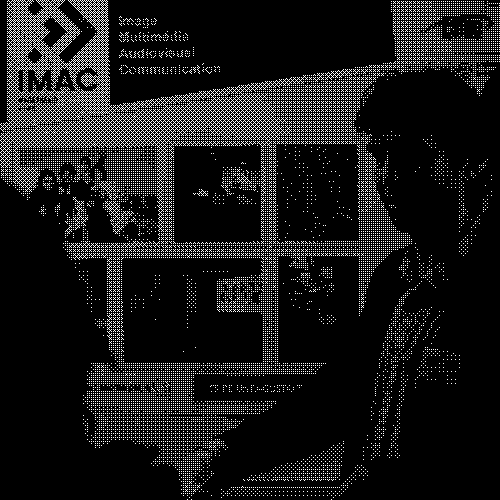
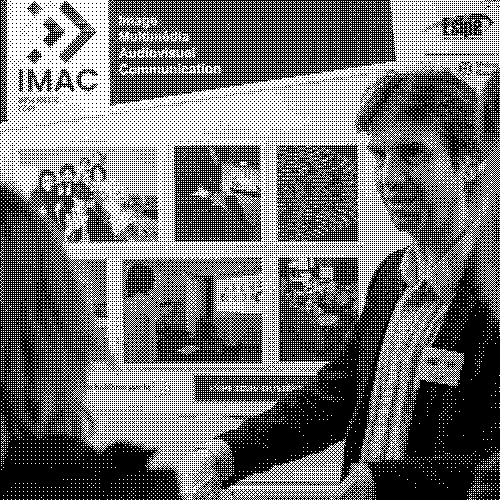
big OPTI + OP tramage
OPTI degrade + OPTI seulementLeVert + OPTI mosaique + OP tramage + OPTI mosaiqueMirror

diff --git a/src/main.cpp b/src/main.cpp
@@ -16,7 +16,6 @@ void seulementLeVert(sil::Image image)
         color.r = 0.f /*mets la composante rouge à 0. 1 couleur = glm::vec3 */ ;
         color.b = 0.f;
     }
-    
     image.save("output/01_seulementLeVert.png");
 }
 
@@ -58,9 +57,7 @@ void degrade(sil::Image image)
     {
         for (int x{0}; x < image.width(); x++)
         {
-            image.pixel(x, y).r += x / (image.width() - 1.0);
-            image.pixel(x, y).g += x / (image.width() - 1.0);
-            image.pixel(x, y).b += x / (image.width() - 1.0);
+            image.pixel(x, y) += x / (image.width() - 1.0);
 
             /* Autre façon de faire, en utilisant la valeur précédente en incrémentant :
             image.pixel(x, y).r += image.pixel(x-1, 0).r + 1.f/(image.width() -1);
@@ -227,54 +224,55 @@ void rosace (sil::Image & image,int thickness){
 
 void mosaique(sil::Image image) 
 {
-    sil::Image canvasMosaic{5*image.width(), 5*image.height()};
+    sil::Image mosaicCanvas{5*image.width(), 5*image.height()};
     
-    for (int canvasCol{0}; canvasCol < 5*image.height(); canvasCol += image.height())
+    for (int mosaicCanvasRow{0}; mosaicCanvasRow < 5; mosaicCanvasRow++)
     {
-        for (int canvasRow{0}; canvasRow < 5*image.width(); canvasRow += image.width())
+        for (int mosaicCanvasCol{0}; mosaicCanvasCol < 5; mosaicCanvasCol++)
         {
             for (int entryImageX{0}; entryImageX < image.width(); entryImageX++)
             {
-                for (int yImageEntry{0}; yImageEntry < image.height(); yImageEntry++)
+                for (int entryImageY{0}; entryImageY < image.height(); entryImageY++)
                 {
-                    canvasMosaic.pixel(entryImageX + canvasRow, yImageEntry + canvasCol) = image.pixel(entryImageX, yImageEntry);
+                    mosaicCanvas.pixel(mosaicCanvasRow*image.width() + entryImageX, mosaicCanvasCol*image.height() + entryImageY) = image.pixel(entryImageX, entryImageY);
                 }
             }
         }
     }
-    canvasMosaic.save("output/14_mosaique.png");
+    mosaicCanvas.save("output/14_mosaique.png");
 }
 
 void mosaiqueMiroir(sil::Image image) 
 {
-    sil::Image canvasMirroredMosaic{5*image.width(), 5*image.height()};
-    int startingPointx{};
-    int startingPointy{};
+    sil::Image mirroredMosaicCanvas{5*image.width(), 5*image.height()};
 
-    for (int mirroredCanvasRow{0}; mirroredCanvasRow < 5; mirroredCanvasRow++) 
+    for (int mirroredMosaicCanvasRow{0}; mirroredMosaicCanvasRow < 5; mirroredMosaicCanvasRow++) 
     {
-        for (int mirroredCanvasCol=0; mirroredCanvasCol<5; mirroredCanvasCol++) 
+        for (int mirroredMosaicCanvasCol{0}; mirroredMosaicCanvasCol < 5; mirroredMosaicCanvasCol++) 
         {
-            for (int xEntryImage{0}; xEntryImage < image.width(); xEntryImage++)
+            for (int entryImageX{0}; entryImageX < image.width(); entryImageX++)
             {
-                for (int yEntryImage{0}; yEntryImage < image.height(); yEntryImage++)
+                for (int entryImageY{0}; entryImageY < image.height(); entryImageY++)
                 {
-                    if (mirroredCanvasRow%2 == 1) {
-                        startingPointx = image.width()-xEntryImage-1;
+                    int startingPointX{};
+                    int startingPointY{};
+
+                    if (mirroredMosaicCanvasRow % 2 == 1) {
+                        startingPointX = image.width()- entryImageX - 1;
                     } else {
-                        startingPointx = xEntryImage;
+                        startingPointX = entryImageX;
                     }
-                    if (mirroredCanvasCol%2 == 1) {
-                        startingPointy = image.height()-yEntryImage-1;
+                    if (mirroredMosaicCanvasCol % 2 == 1) {
+                        startingPointY= image.height() - entryImageY - 1;
                     } else {
-                        startingPointy = yEntryImage;
+                        startingPointY= entryImageY;
                     }
-                    canvasMirroredMosaic.pixel(mirroredCanvasRow*image.width()+xEntryImage, mirroredCanvasCol*image.height()+yEntryImage) = image.pixel(startingPointx, startingPointy);
+                    mirroredMosaicCanvas.pixel(mirroredMosaicCanvasRow*image.width() + entryImageX, mirroredMosaicCanvasCol*image.height() + entryImageY) = image.pixel(startingPointX, startingPointY);
                 }
             }
         }
     }
-    canvasMirroredMosaic.save("output/15_mosaiqueMiroir.png");
+    mirroredMosaicCanvas.save("output/15_mosaiqueMiroir.png");
 }
 
 void glitch(sil::Image image) 
@@ -333,14 +331,12 @@ void tramage(sil::Image image)
         { -0.3125,  0.1875, -0.4375,  0.0625 },
         {  0.4375, -0.0625,  0.3125, -0.1875 },
     };
-
-    noirEtBlanc(image);
     
     for (int x{0}; x < image.width(); x++)
     {
         for (int y{0}; y < image.height(); y++)
         {
-            if (image.pixel(x, y).r > 1 - bayer_matrix_4x4[x % 4][y % 4])
+            if (image.pixel(x, y).r + bayer_matrix_4x4[x % 4][y % 4] > 0.5f)
             {
                 image.pixel(x, y).r = 1;
                 image.pixel(x, y).g = 1;
@@ -556,14 +552,15 @@ int main()
     //     sil::Image image_noire{500, 500};
     //     rosace(image_noire,thickness);
     // }
-    // mosaique(logo);  
-    // mosaiqueMiroir(logo);
+
+    mosaique(logo);  
+    mosaiqueMiroir(logo);
 
     // glitch(logo);
     // vortex(logo,result);
-    // tramage(photo;)
+    // tramage(photo);
 
-    { 
+    // { 
     //    /*CONVOLUTION*/
     //     std::vector<std::vector<float>> kernel {{1.f/9.f,1.f/9.f,1.f/9.f},{1.f/9.f,1.f/9.f,1.f/9.f},{1.f/9.f,1.f/9.f,1.f/9.f}};
     //     convolutions(logo, result);
@@ -575,26 +572,26 @@ int main()
     //    {sil::Image logo{"images/logo.png"};
     //
         //creation du kernel
-        std::vector<std::vector<float>> kernel {};
-        int longueur_kernel {};
-        std::cout << "Entrez la longueur du kartel que vous souhaitez (nombre impair): " ;
-        std::cin >> longueur_kernel; 
+    //     std::vector<std::vector<float>> kernel {};
+    //     int longueur_kernel {};
+    //     std::cout << "Entrez la longueur du kartel que vous souhaitez (nombre impair): " ;
+    //     std::cin >> longueur_kernel; 
 
-        while(longueur_kernel%2==0){
-        std::cout << "Probleme, vous avez entrez un nombre pair. Veuillez recommencer. " << std::endl;
-        std::cout << "Entrez la dimension de votre kernel (nombre impair) : " ;
-        std::cin >> longueur_kernel;
-        }
+    //     while(longueur_kernel%2==0)
+    //     {
+    //         std::cout << "Probleme, vous avez entrez un nombre pair. Veuillez recommencer. " << std::endl;
+    //         std::cout << "Entrez la dimension de votre kernel (nombre impair) : " ;
+    //         std::cin >> longueur_kernel;
+    //     }
          
-        std::vector<float> tmp {}; 
-        for(int i{1} ; i<= longueur_kernel ; i++){
-           for(int j{1} ; j<= longueur_kernel ; j++){
-               tmp.push_back({1.f/(static_cast<float>(longueur_kernel)*static_cast<float>(longueur_kernel))});
-           }
-           kernel.push_back(tmp); 
-        }
+    //     std::vector<float> tmp {}; 
+    //     for(int i{1} ; i<= longueur_kernel ; i++){
+    //        for(int j{1} ; j<= longueur_kernel ; j++){
+    //            tmp.push_back({1.f/(static_cast<float>(longueur_kernel)*static_cast<float>(longueur_kernel))});
+    //        }
+    //        kernel.push_back(tmp); 
+    //     }
        
-       filtresSeparables(kernel,longueur_kernel,logo, result);
-       }
+    //    filtresSeparables(kernel,longueur_kernel,logo, result);
     // }
 }
